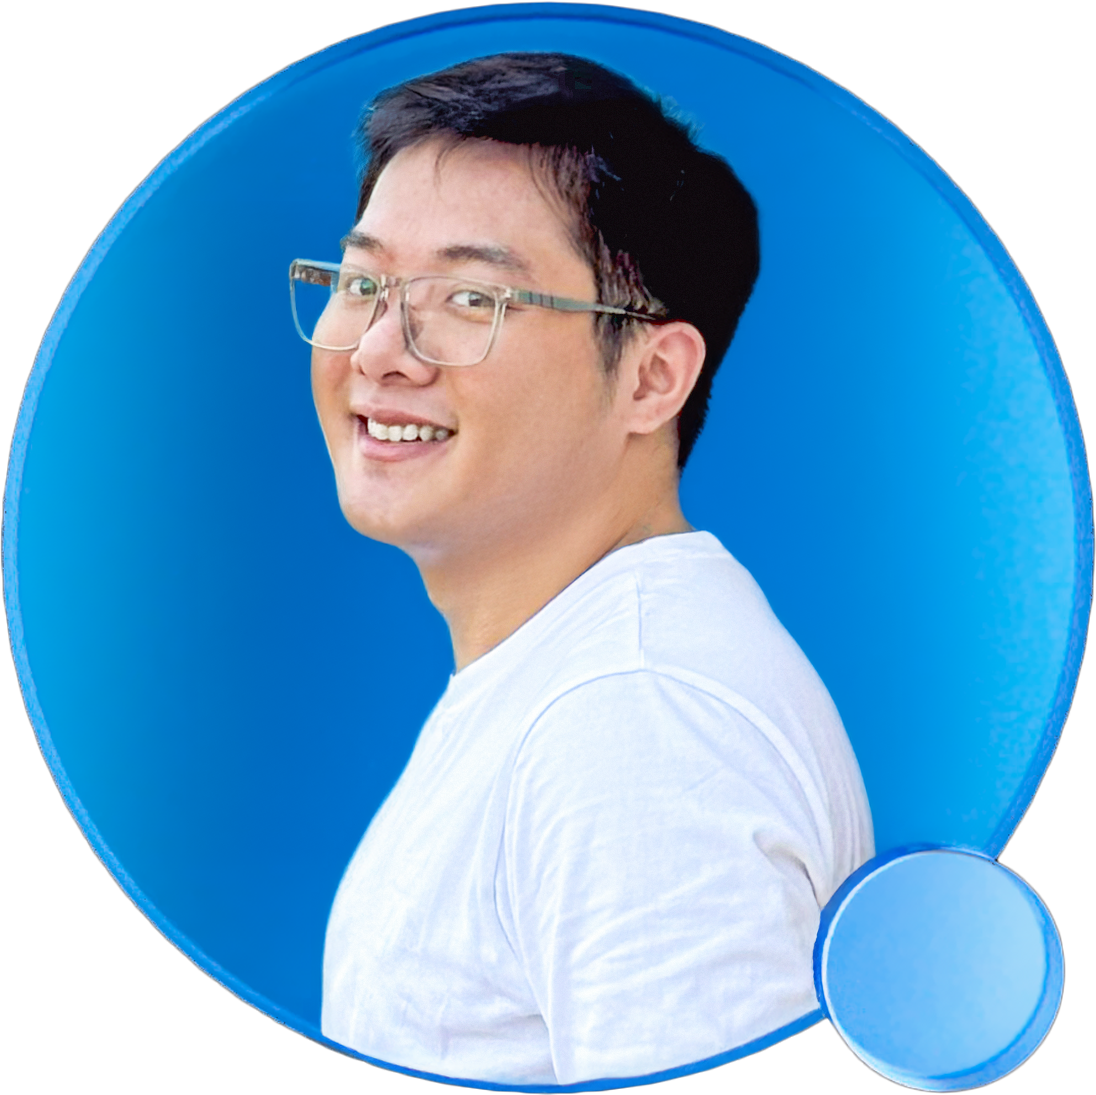
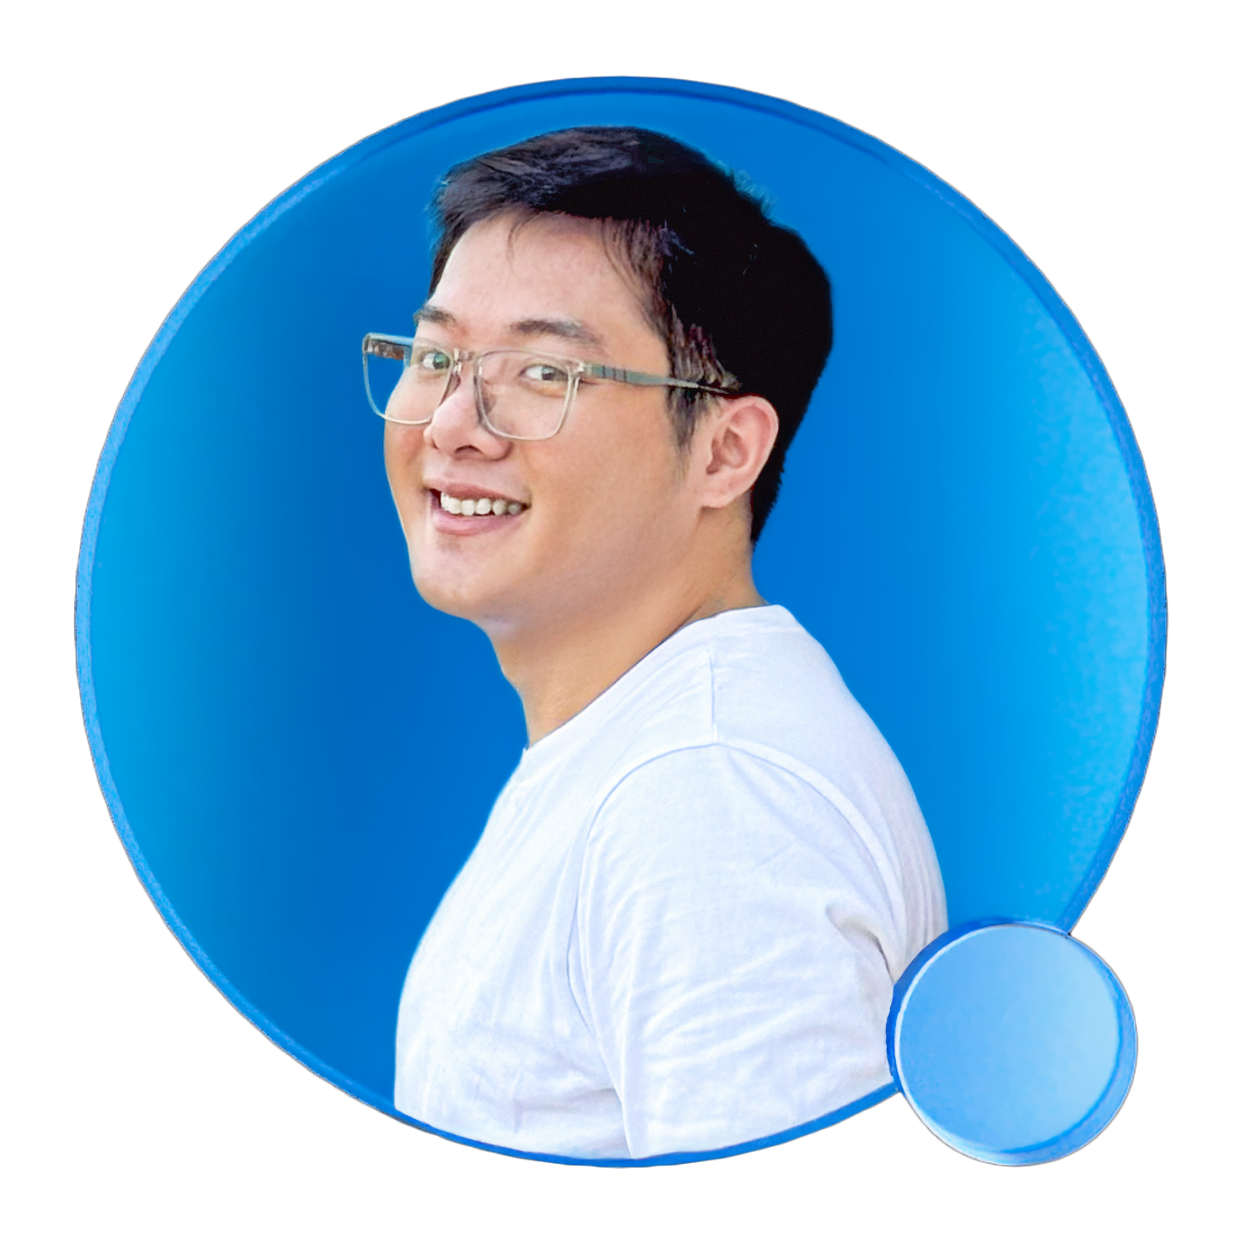
update about

diff --git a/about/index.html b/about/index.html
@@ -282,13 +282,13 @@
 <body data-theme="dark">
     <div id="header-placeholder"></div>
 
-  <main class="blog-content bg-background text-text-color font-inter w-full min-h-screen" id="main-content">
+  <main class="blog-content bg-background text-text-color font-inter w-full min-h-screen mt-24 md:mt-10">
     <!-- Section: About/Hero -->
     <section class="max-w-5xl mx-auto px-4 md:px-8 py-12 md:py-16">
       <div class="bg-card rounded-2xl shadow-xl p-0 md:p-0 overflow-hidden">
         <div class="grid grid-cols-1 md:grid-cols-2 gap-0 md:gap-8 items-center">
           <!-- Avatar -->
-          <div class="flex justify-center items-center h-full">
+          <div class="flex justify-center items-center h-full mt-5 md:mt-0">
             <img src="/images/avata.png" alt="Mạnh Profile" class="w-40 md:w-60 lg:w-80 aspect-square">
           </div>
           <!-- Info + Language Toggle -->
